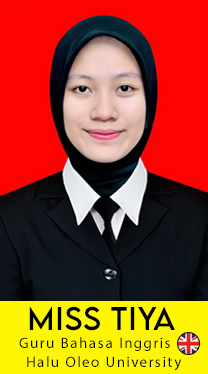
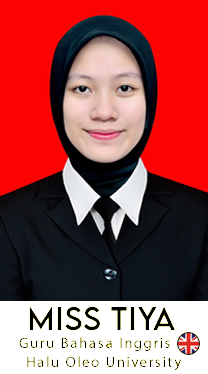
color update

Changed region(s): [[0.0, 0.7941, 1.0, 1.0]]

diff --git a/src/components/Kenapa.jsx b/src/components/Kenapa.jsx
@@ -9,7 +9,7 @@ const Kenapa = () => {
     className="block px-6 py-6 md:py-20 md:px-10  border-none "
   >
     <div className=" relative mx-auto max-w-5xl text-center">
-      <div className='bg-[#FFFF00] rounded-full w-full'><h2 className=" block w-full bg-gradient-to-b text-black bg-clip-text font-bold text-3xl sm:text-3xl  ">
+      <div className='bg-[#eee] rounded-full w-full'><h2 className=" block w-full bg-gradient-to-b text-black bg-clip-text font-bold text-3xl sm:text-3xl  ">
       Kenapa Harus Belajar
         </h2>
         <h2 className=" block w-full bg-gradient-to-b text-black bg-clip-text font-bold text-3xl sm:text-3xl  ">
@@ -21,7 +21,7 @@ const Kenapa = () => {
       </p>
     </div>
     <div className=" mx-auto max-w-7xl z-10 grid grid-cols-1 gap-10 pt-14 sm:grid-cols-2 lg:grid-cols-3">
-      <div className="rounded-md border border-neutral-800 bg-[#FFFF00] p-8 text-center shadow">
+      <div className="rounded-md border border-neutral-800 bg-[#eee] p-8 text-center shadow">
         <div
           className="button-text mx-auto flex h-12 w-12 items-center justify-center rounded-md border-none "
         >
@@ -35,7 +35,7 @@ const Kenapa = () => {
           Guru merupakan lulusan Universitas Cina dan Universitas terkemuka di Indonesia. 
         </p>
       </div>
-      <div className="rounded-md border border-neutral-800 bg-[#FFFF00] p-8 text-center shadow">
+      <div className="rounded-md border border-neutral-800 bg-[#eee] p-8 text-center shadow">
         <div
           className="button-text mx-auto flex h-12 w-12 items-center justify-center rounded-md border-none "
         >
@@ -49,7 +49,7 @@ const Kenapa = () => {
           Kami menyediakan kelas offline dan online bagi yang kesulitan mencari waktu belajar 
         </p>
       </div>
-      <div className="rounded-md border border-neutral-800 bg-[#FFFF00] p-8 text-center shadow">
+      <div className="rounded-md border border-neutral-800 bg-[#eee] p-8 text-center shadow">
         <div
           className="button-text mx-auto flex h-12 w-12 items-center justify-center rounded-md border-none "
         >

diff --git a/src/components/About.jsx b/src/components/About.jsx
@@ -9,7 +9,7 @@ const About = () => {
                 <img src={john} alt='john' className='john'/>
                 <div className='text-[white] flex flex-col justify-center items-center p-0.5 first:text-justify text-[1.3rem] italic font-semibold mx-0 my-8'>
                     <h2 className='text-[black] flex justify-center items-center h-[70px] w-full lg:w-1/2 relative text-center font-bold border-[none];
-  bg-[#ffea00] rounded-full text-3xl'>Tentang Kami</h2>
+  bg-[#eee] rounded-full text-3xl'>Tentang Kami</h2>
                     <span className='line'></span>
                     <p className=' text-justify'>Kursus Meimei merupakan tempat belajar Bahasa Mandarin yang sudah hadir di Kota Kendari dan menjadi yang pertama di Sulawesi Tenggara (Sultra).  Tapi kami tidak hanya menyediakan kursus bahasa Mandarin namun juga ada banyak kursus yang lain seperti Bahasa Inggris, Seni Lukis, Design grafis, Matematika, Biologi, Kimia, dan Fisika. Kursus Meimei juga memiliki guru atau tutor yang merupakan lulusan universitas di Cina dan Universitas Terkemuka di Indonesia sehingga bisa menjadi pengajar yang relevan dengan calon siswanya. </p>
                     <a rel="noreferrer" href="https://desty.page/kursusmeimeijiaoyu" target="_blank"><button className='button' >Cari tahu selengkapnya</button></a>

diff --git a/src/components/EmblaCarousel.jsx b/src/components/EmblaCarousel.jsx
@@ -12,6 +12,10 @@ import slide_6 from './images/slide 6.jpg'
 import slide_7 from './images/slide 7.jpg'
 import slide_8 from './images/slide 8.jpg'
 import slide_9 from './images/slide 9.jpg'
+import slide_10 from './images/slide 10.jpg'
+import slide_11 from './images/slide 11.jpg'
+import slide_12 from './images/slide 12.jpg'
+
 
 const EmblaCarousel = (props) => {
   const { options } = props
@@ -64,6 +68,15 @@ const EmblaCarousel = (props) => {
           </div>
           <div class='embla__slide1'>
             <img src={slide_9} alt=''/>
+          </div>
+          <div class='embla__slide1'>
+            <img src={slide_10} alt=''/>
+          </div>
+          <div class='embla__slide1'>
+            <img src={slide_11} alt=''/>
+          </div>
+          <div class='embla__slide1'>
+            <img src={slide_12} alt=''/>
           </div>
 
         </div>

diff --git a/src/components/embla.css b/src/components/embla.css
@@ -75,3 +75,25 @@
 .embla__dot--selected:after {
   box-shadow: inset 0 0 0 0.2rem rgb(255, 3, 3);
 }
+
+@media screen and (max-width: 940px) {
+  .embla__dot {
+    -webkit-tap-highlight-color: rgba(49, 49, 49);
+    -webkit-appearance: none;
+    appearance: none;
+    background-color: transparent;
+    touch-action: manipulation;
+    display: inline-flex;
+    text-decoration: none;
+    cursor: pointer;
+    border: 0;
+    padding: 0;
+    margin: 0;
+    width: 30px;
+    height: 2.6rem;
+    display: flex;
+    align-items: center;
+    justify-content: center;
+    border-radius: 50%;
+  }
+}

diff --git a/src/components/Slider.jsx b/src/components/Slider.jsx
@@ -24,7 +24,7 @@ export default function EmblaCarousel() {
   return (
     
     <div class='embla'>
-    <h1 class=' tenaga text-[black] bg-[#ffff00] flex justify-center items-center h-[70px] w-full relative text-center font-bold text-3xl rounded-full '
+    <h1 class=' tenaga text-[black] bg-[#eee] flex justify-center items-center h-[70px] w-full relative text-center font-bold text-3xl rounded-full '
     >Tenaga Pengajar</h1>
       <div class='embla__viewport' ref={emblaRef}>
         <div class='embla__container'>

diff --git a/src/components/Demo.jsx b/src/components/Demo.jsx
@@ -33,7 +33,8 @@ const Demo = () => {
             </div>
             <div className="div9">
               <h3 className="div10">Jam Oprasional</h3>
-              <p className="div11">Setiap Hari: 9am - 9pm</p>
+              <p className="div11">senin - jumat : 9am - 8pm</p>
+              <p className='div11'>sabtu - minggu : 10am - 8pm</p>
             </div>
             <div className="div9">
               <h3 className="div10">Kontak</h3>

diff --git a/src/components/Footer.css b/src/components/Footer.css
@@ -1,6 +1,6 @@
 .footer {
   width: 100%;
-  background-color: rgb(21, 20, 20);
+  background-color: #aa2a2ae6;
   color: #eee;
   padding: 1px 1px;
   justify-items: center;
@@ -21,7 +21,7 @@
 }
 
 .footer li {
-  padding: 1rem;
+  padding: 0.5rem;
 }
 
 .footer li a {

diff --git a/src/index.css b/src/index.css
@@ -11,8 +11,8 @@
   width: 100%;
   --primary-color: #5bb462;
   --primary-dark: #4f9c55;
-  --secondary-color: #ffea00;
-  --secondary-dark: #e3d002;
+  --secondary-color: #eee;
+  --secondary-dark: #d0c7c7;
   --overlay: rgba(0, 0, 0, 0.7);
 }
 

diff --git a/src/components/Program.css b/src/components/Program.css
@@ -17,7 +17,7 @@
 .leaderboard header {
   --start: 15%;
   height: 130px;
-  background-color: yellow;
+  background-color: #eee;
   color: black;
   position: relative;
   border-radius: 12px 12px 0 0;

diff --git a/src/components/Demo.css b/src/components/Demo.css
@@ -36,7 +36,7 @@
 .div3 {
   font-weight: 600;
   border-radius: 999px;
-  background-color: yellow;
+  background-color: #eee;
   color: black;
   font-weight: 700;
   font-size: 1.875rem /* 30px */;

diff --git a/src/components/Navbar.css b/src/components/Navbar.css
@@ -7,7 +7,7 @@
   z-index: 1;
   transition: 0.3s ease-in;
   overflow: hidden;
-  background-color: rgba(0, 0, 0, 0.9);
+  background-color: #aa2a2ae6;
 }
 
 .header .navbar {

diff --git a/src/components/Slider.css b/src/components/Slider.css
@@ -30,7 +30,7 @@
 }
 
 .button_embla {
-  background-color: #ffff00;
+  background-color: #eee;
   border-radius: 99px;
   border: none;
   color: rgb(0, 0, 0);
